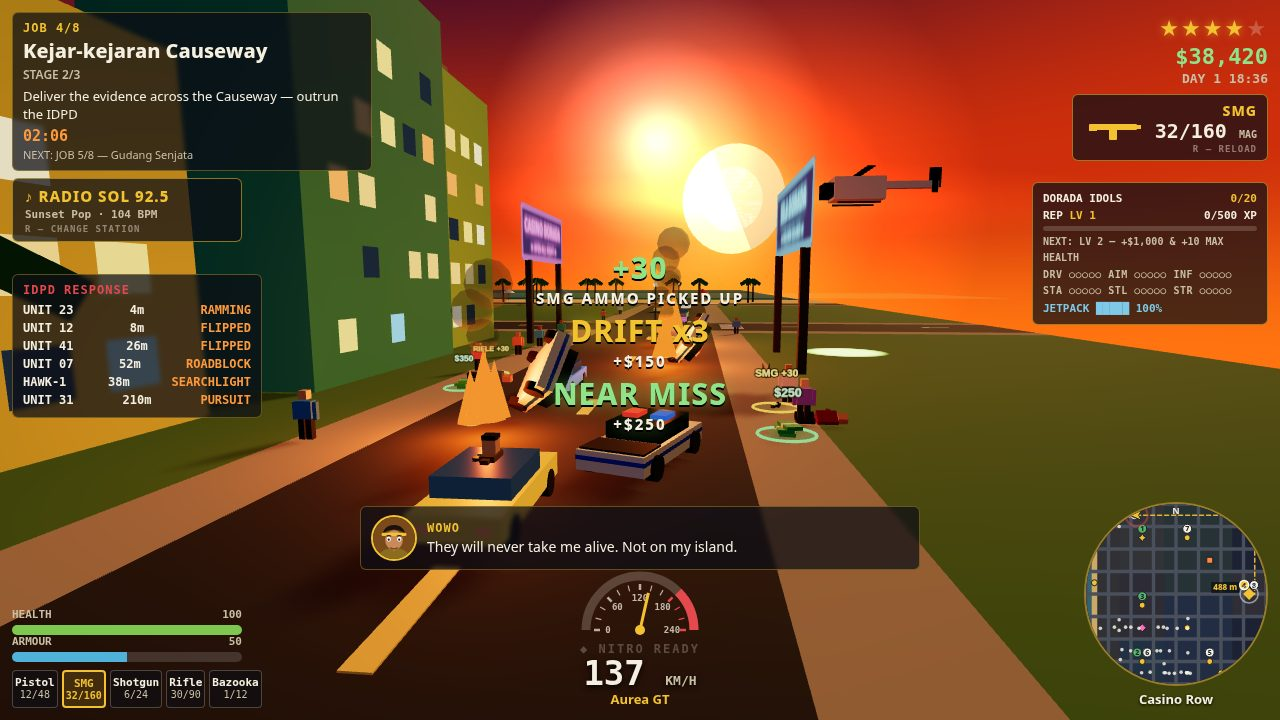
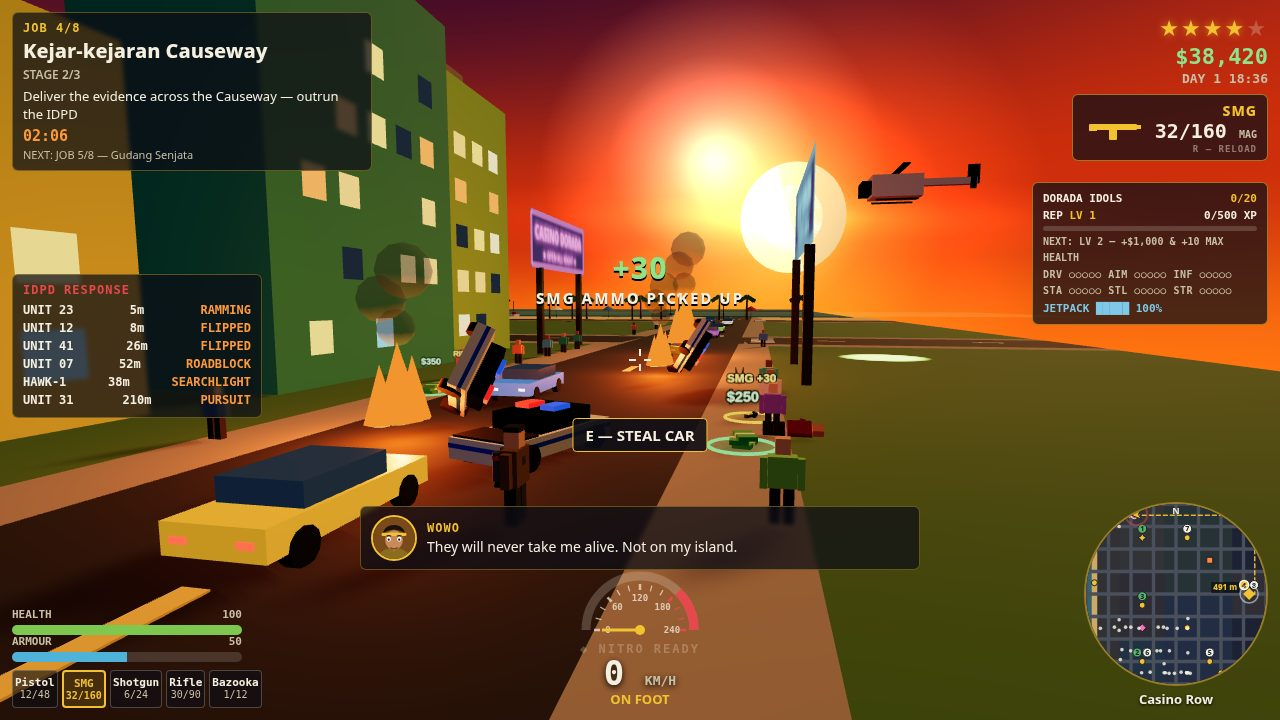
Token launch radar entry for make.fun token-radar-01

diff --git a/game/src/shots.js b/game/src/shots.js
@@ -10,7 +10,7 @@
 // nothing here depends on them):
 //   chase  — the cover: WESTBOUND into the sunset on the north coastal road,
 //            sun + flare dead ahead, neon billboards, a police car RAMMING
-//            the player's rear quarter (contact), a FLIPPED police car, a
+//            the getaway car (contact), a FLIPPED police car, a
 //            roadblock, a BURNING traffic car, the heli overhead, traffic +
 //            peds, DRIFT x3 + NEAR MISS +$250 popups, portrait dialogue.
 //   title  — bright title over a westward sunset view of Casino Row.
@@ -253,11 +253,10 @@ function stageChase(G) {
   const PX = -140, PZ = -280, H = -Math.PI / 2;
   const car = makeCar(G, 'Aurea GT', PX, PZ, H);
   brightenCar(G, car); // gold must read gold from the shadow side too
-  G.player.mode = 'car';
-  G.player.pos.set(PX, 0, PZ);
+  G.player.mode = 'foot'; // V3-7: on foot, stealing the GT (prompt proves it)
+  G.player.pos.set(PX - 1, 0, PZ - 3.5);
   G.player.heading = H;
-  G.driving.car = car;
-  G.driving.speed = 38; // ~137 km/h
+  G.driving.parked.push(car); // GT is the steal target
   G.player.money = 38420;
   G.player.health = 100;
   G.player.armour = 50;
@@ -278,7 +277,7 @@ function stageChase(G) {
   // the chase camera to read as a car instead of a wall — one FLIPPED on its
   // roof ahead-left, one roadblock head-on ahead, heli overhead.
   setWanted(G, 4);
-  const ram = spawnPoliceCar(G, PX - 4.5, PZ - 3.0, H + 2.8);
+  const ram = spawnPoliceCar(G, PX - 6, PZ - 2, H + 2.8);
   ram.status = 'RAMMING';
   // V3-1: the flipped unit is the CENTRE of the cover — caught mid-flip in
   // the air directly ahead of the GT (not a background wreck).
@@ -288,9 +287,9 @@ function stageChase(G) {
   const flipped2 = flipPoliceCar(G, PX - 26, PZ - 3.5, H + 0.4, { y: 1.8, pitch: 0.5, roll: Math.PI * 0.7 });
   const block = spawnPoliceCar(G, PX - 52, PZ - 1.5, -H);
   block.status = 'ROADBLOCK';
-  const heli = spawnHeli(G, PX - 34, PZ - 16, 12); // V3-5: lower, searchlight cone in frame
+  const heli = spawnHeli(G, PX - 40, PZ - 18, 13); // V3-5: high, clear of billboards, rotor vs sky
   G.police.units = [
-    { name: 'UNIT 23', dist: 4, status: 'RAMMING', mesh: ram.mesh },
+    { name: 'UNIT 23', dist: 5, status: 'RAMMING', mesh: ram.mesh },
     { name: 'UNIT 12', dist: 8, status: 'FLIPPED', mesh: flipped.mesh },
     { name: 'UNIT 41', dist: 26, status: 'FLIPPED', mesh: flipped2.mesh },
     { name: 'UNIT 07', dist: 52, status: 'ROADBLOCK', mesh: block.mesh },
@@ -343,6 +342,9 @@ function stageChase(G) {
   spawnPed(G, PX - 70, PZ - 8);
   spawnPed(G, PX - 88, PZ + 8);
   spawnPed(G, PX - 6, PZ - 8);
+  spawnPed(G, PX - 2, PZ - 7.5);
+  spawnPed(G, PX - 18, PZ + 7.5);
+  spawnPed(G, PX - 40, PZ - 7.5);
 
   // V3 density: a second downed officer on the south shoulder with his own
   // loot — the flipped units threw two men out, not one.
@@ -359,20 +361,10 @@ function stageChase(G) {
   G.combat.weaponIndex = 1; // SMG in the rack
   G.audio.radioIndex = 0;
   showDialogue(G, 'WOWO', 'They will never take me alive. Not on my island.', 60000);
-  // Score popups the judge asked for: drift chain + a near miss, live in
-  // shot mode until the screenshot (hud.js holds them 60 s in shot mode).
-  pushScorePopup(G, 'DRIFT x3', 'drift', '+$150');
-  pushScorePopup(G, 'NEAR MISS', 'nearmiss', '+$250');
-  // Camera higher and further back, pitched down ~11 degrees, and shifted
-  // to the NORTH side of the road (lat +4.5): a 3/4 rear view, so the GT's
-  // sunlit north flank reads instead of its dead-black rear. The GT sits
-  // whole ABOVE the dialogue box, the flipped unit and the burning car ahead,
-  // the sun still in frame up top, the heli (lowered to 18 m) just inside
-  // the top edge.
-  placeChaseCamera(G, G.player.pos, H, 12.5, 5.2, 0, -2, 62, 4.5);
-  // Aim nearer and lower than the default look target so the GT rides near
-  // frame centre instead of sliding under the HUD.
-  G.camera.lookAt(PX - 24, 0.5, PZ - 1);
+  // Camera close at Wowo's shoulder: Wowo + GT big in the foreground, the
+  // flipped units, roadblock, heli and sunset ahead, prompt on the steal.
+  placeChaseCamera(G, G.player.pos, H, 10.5, 4.2, 0, -2, 62, 4.5);
+  G.camera.lookAt(PX - 26, 0.8, PZ - 1);
   G.camera.updateProjectionMatrix();
   renderHUD(G);
   renderMinimap(G);
@@ -496,13 +488,13 @@ function stageCombat(G) {
   spawnDamageNumber(G, bp.x, 5.5, bp.z, '-220', '#ff8a3a');
 
   // --- a CAR thrown through the air by the blast (posed directly) ---
-  // Heading-relative placement (offsetFrom): 14 m screen-RIGHT of the blast
+  // Heading-relative placement (offsetFrom): 11 m screen-RIGHT of the blast
   // core so it clears the fireball instead of hiding inside/behind it (the
   // old raw x/z offset landed it at the fireball's right edge, unreadable).
   // A yellow Marina Taxi, so the flying car reads at a glance instead of
   // vanishing into the dark buildings like a dark coupe did. Raised to 5.5 m
   // so it is clearly ABOVE the ground, tumbling, nose-down, mid-air.
-  const taxiP = offsetFrom(bp.x, bp.z, H, 2, 14);
+  const taxiP = offsetFrom(bp.x, bp.z, H, 2, 11);
   const thrown = makeCar(G, 'Marina Taxi', taxiP.x, taxiP.z, H + 0.9);
   brightenCar(G, thrown);
   thrown.mesh.position.y = 5.5;
@@ -510,15 +502,15 @@ function stageCombat(G) {
   addFire(G, taxiP.x, taxiP.z, 0.9);
 
   // --- a BODY frozen mid-air at the peak of the blast ---
-  // A heavy (1.25x bulk, bigger silhouette), 13 m screen-LEFT of the blast
-  // core (heading-relative, so it clears the fireball on the other side from
-  // the taxi) and raised to 6.0 m so it silhouettes against the SKY, not the
-  // orange fireball. Bright IDPD-blue uniform (cloned material, so no other
+  // A heavy (1.25x bulk, bigger silhouette), 9 m screen-LEFT of the blast
+  // core and 4 m back toward the camera (so he reads BIG, not a speck),
+  // raised to 7.0 m so he silhouettes against the SKY, not the orange
+  // fireball. Bright IDPD-blue uniform (cloned material, so no other
   // heavy is recolored) so the tumbling figure reads at a glance.
-  const flyP = offsetFrom(bp.x, bp.z, H, 3, -13);
+  const flyP = offsetFrom(bp.x, bp.z, H, -4, -9);
   const flyer = spawnEnemy(G, flyP.x, flyP.z, 'heavy');
-  flyer.mesh.position.y = 6.0;
-  flyer.mesh.rotation.set(-0.9, 1.2, 0.7); // thrown flat, tumbling
+  flyer.mesh.position.y = 7.0;
+  flyer.mesh.rotation.set(-0.5, 1.2, 0.4); // thrown, tumbling — more upright so he reads
   flyer.mesh.traverse((o) => {
     const m = o.material;
     if (m && m.color && m.color.getHex() === 0x5a5f66) {
@@ -630,17 +622,13 @@ function stageCombat(G) {
     + '<div style="font:700 13px system-ui,sans-serif;color:#7ec8e8;margin-top:3px;">UNLOCKED: JOB 6 — KONFRONTASI</div>';
   const hudEl = document.getElementById('hud');
   if (hudEl) hudEl.appendChild(banner);
-  // Camera: LOW, looking UP at Wowo — the previous angles put him dead
-  // against the fireball / ground, where a dark upright figure reads as
-  // "standing". From below, he silhouettes against the orange SKY in the
-  // upper-left of frame, the jetpack flame and smoke trail hanging below
-  // him, while the blast sits centre-right. Height -3 puts the camera at
-  // y≈2, looking up. Aim AT the blast (not the midpoint): that pushes Wowo
-  // left, clear of the MISSION PASSED banner that covered him before.
-  // Dist 6 keeps him large (~140 px) instead of a thin dark speck; aim
-  // y 5.0 so his head clears the top edge (dist 5 cut him off).
-  placeChaseCamera(G, G.player.pos, H, 6, -3.0, 0, 0, 64, 4);
-  G.camera.lookAt(bp.x, 5.0, bp.z);
+  // Camera: closer (dist 5.5) and a touch higher than the old low angle
+  // (y ~3.5, still below Wowo's 5.0 so he silhouettes against the sky,
+  // not the ground) — a full top-down angle foreshortens him and hides
+  // him behind the fireball. Aim AT the blast, y 4.0, so the drops on
+  // the ground read below it. Wowo stays large, left of the banner.
+  placeChaseCamera(G, G.player.pos, H, 5.5, -1.5, 0, 0, 64, 4);
+  G.camera.lookAt(bp.x, 4.0, bp.z);
   G.camera.updateProjectionMatrix();
   const popLayer = document.getElementById('score-popups');
   if (popLayer) popLayer.style.top = '20%';
